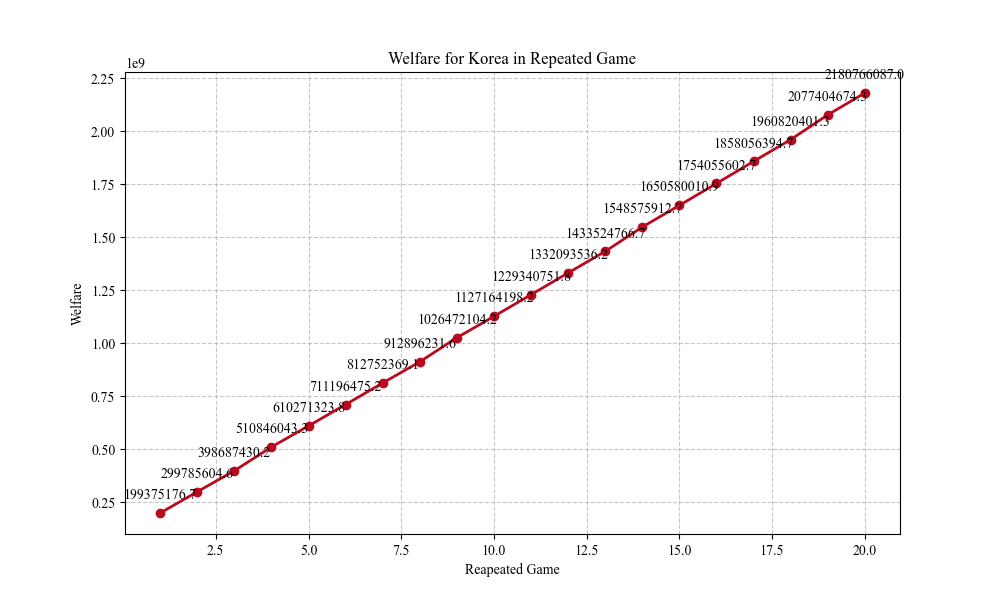
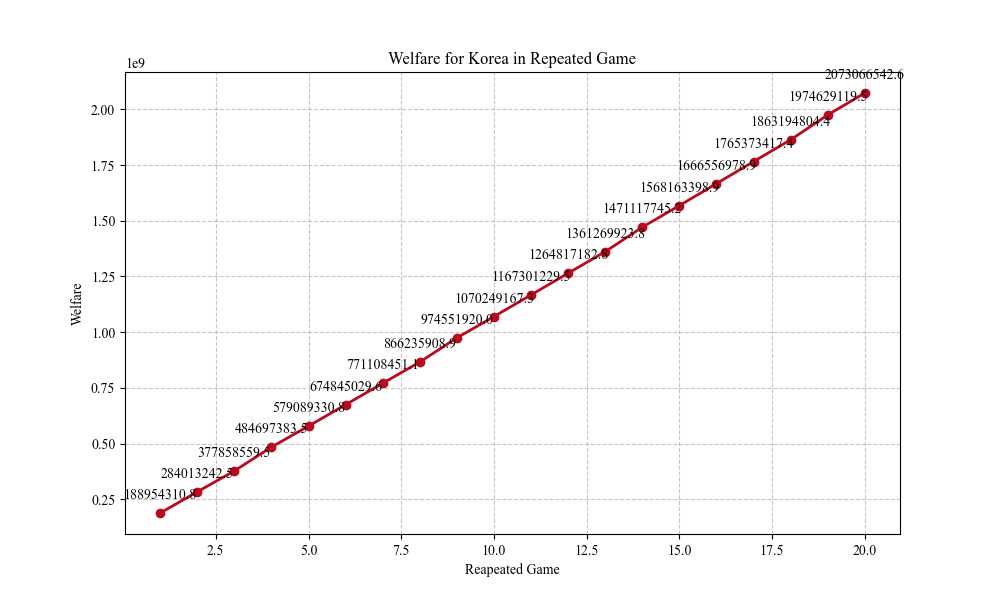
function p_is <-> p_js

diff --git a/welfare/welfare change effect.py b/welfare/welfare change effect.py
@@ -282,8 +282,8 @@ def calculate_optimum_tariffs(exporter_name):
     
     return optimal_taus, gov_obj_values
 
-def calculate_p_is(p_ijs):
-    p_is = {i: {s: 0 for s in var.industries} for i in var.countries}
+def calculate_p_js(p_ijs):
+    p_js = {i: {s: 0 for s in var.industries} for i in var.countries}
     
     for i in var.countries:
         for s in var.industries:
@@ -291,12 +291,12 @@ def calculate_p_is(p_ijs):
             for j in var.countries:
                 if j != i:
                     max_value = max(max_value, p_ijs[i][j][s])
-            p_is[i][s] = max_value
+            p_js[i][s] = max_value
     
-    return p_is
+    return p_js
 
-def calculate_p_js(p_ijs):
-    p_js = {j: {s: float('inf') for s in var.industries} for j in var.countries}
+def calculate_p_is(p_ijs):
+    p_is = {j: {s: float('inf') for s in var.industries} for j in var.countries}
     
     for j in var.countries:
         for s in var.industries:
@@ -304,9 +304,9 @@ def calculate_p_js(p_ijs):
             for i in var.countries:
                 if i != j:
                     min_value = min(min_value, p_ijs[i][j][s])
-            p_js[j][s] = min_value
+            p_is[j][s] = min_value
     
-    return p_js
+    return p_is
 
 
 iteration = 20
@@ -359,7 +359,7 @@ for iter in range(iteration):
     #Delta 값 계산
     changerate_pi = {country: {industry: (var.pi[country][industry] - temp_pi[country][industry])/temp_pi[country][industry] for industry in var.industries} for country in var.countries}
     changerate_p_is = {i: {industry: (p_is[i][industry] - temp_p_is[i][industry])/ temp_p_is[i][industry] for industry in var.industries} for i in var.countries}
-    changerate_p_js = {j: {industry: (p_is[j][industry] - temp_p_js[j][industry])/temp_p_js[j][industry] for industry in var.industries} for j in var.countries}
+    changerate_p_js = {j: {industry: (p_js[j][industry] - temp_p_js[j][industry])/temp_p_js[j][industry] for industry in var.industries} for j in var.countries}
     changerate_T = {i: {j: {industry: (var.T[i][j][industry] - temp_T[i][j][industry])/temp_T[i][j][industry] for industry in var.industries} for j in var.countries if i != j} for i in var.countries}
 
     # Call welfare_change with updated delta values
